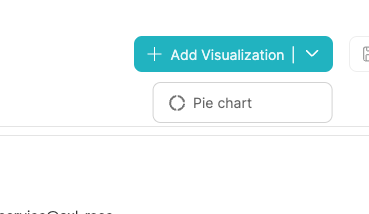
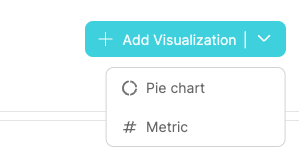
replacing image. adjusting the metric visualization text

diff --git a/docs/customize-pages-dashboards-and-plugins/dashboards/dashboards.md b/docs/customize-pages-dashboards-and-plugins/dashboards/dashboards.md
@@ -41,23 +41,23 @@ You can create a pie chart illustrating data from Entities in your software cata
 
 ### Metric chart
 
-You can create a number metric from entities in your software catalog. You can aggregate entities or their properties(only number properties) by count, sum, average, min, max or median. You can also filter the entities with Port's [Search Rules](../../search-and-query/search-and-query.md#rules)
+You can create a metric visualization from related entities in the [**specific entity page**](../page/entity-page.md). You can either count the entities or perform an aggregation function on a number property. You can also filter entities so the aggregation metric will only apply to a limited set of entities with Port's [Search Rules](../../search-and-query/search-and-query.md#rules)
 
-#### Visualization properties
+#### Metric properties
 
 | Field              | Type     | Description                                                                                                                  | Default | Required |
 | ------------------ | -------- | ---------------------------------------------------------------------------------------------------------------------------- | ------- | -------- |
-| `Title`            | `String` | Visualization title                                                                                                          | `null`  | `true`   |
-| `Icon`             | `String` | Visualization Icon                                                                                                           | `null`  | `false`  |
-| `Description`      | `String` | Visualization description                                                                                                    | `null`  | `false`  |
+| `Title`            | `String` | Metric title                                                                                                                 | `null`  | `true`   |
+| `Icon`             | `String` | Metric Icon                                                                                                                  | `null`  | `false`  |
+| `Description`      | `String` | Metric description                                                                                                           | `null`  | `false`  |
 | `Blueprint`        | `String` | The chosen Blueprint from which related Entities data is visualized from                                                     | `null`  | `true`   |
-| `Calculation Type` | `String` | Aggregate the metric by either count the entities or perform a function a property                                           | `count` | `true`   |
-| `Property`         | `String` | Visualization                                                                                                                | `null`  | `true`   |
+| `Calculation Type` | `String` | Aggregate by either counting the entities or perform a function on a property                                                | `count` | `true`   |
+| `Property`         | `String` | Metric                                                                                                                       | `null`  | `true`   |
 | `Function`         | `String` | sum, min, max, average, median                                                                                               | `null`  | `true`   |
 | `Filters`          | `Array`  | Filters to include or exclude specific data based on Port's [Search Rules](../../search-and-query/search-and-query.md#rules) | []      | `false`  |
 | `unit`             | `String` | The unit of the metric. Possible Values: `%`, `$`, `£`, `€`, `none`, `custom`                                                | `null`  | `true`   |
-| `unitCustom`       | `String` | Text to appear below the number                                                                                              | `null`  | `true`   |
-| `unitAlignment`    | `String` | `left`, `right`, `bottom`                                                                                                    | `null`  | `true`   |
+| `unitCustom`       | `String` | Text to appear below the number. unit equals to `custom` is required                                                         | `null`  | `true`   |
+| `unitAlignment`    | `String` | `left`, `right`, `bottom`.                                                                                                   | `null`  | `true`   |
 
 ### Example: filter only `Deployment` Entities from last week
 
